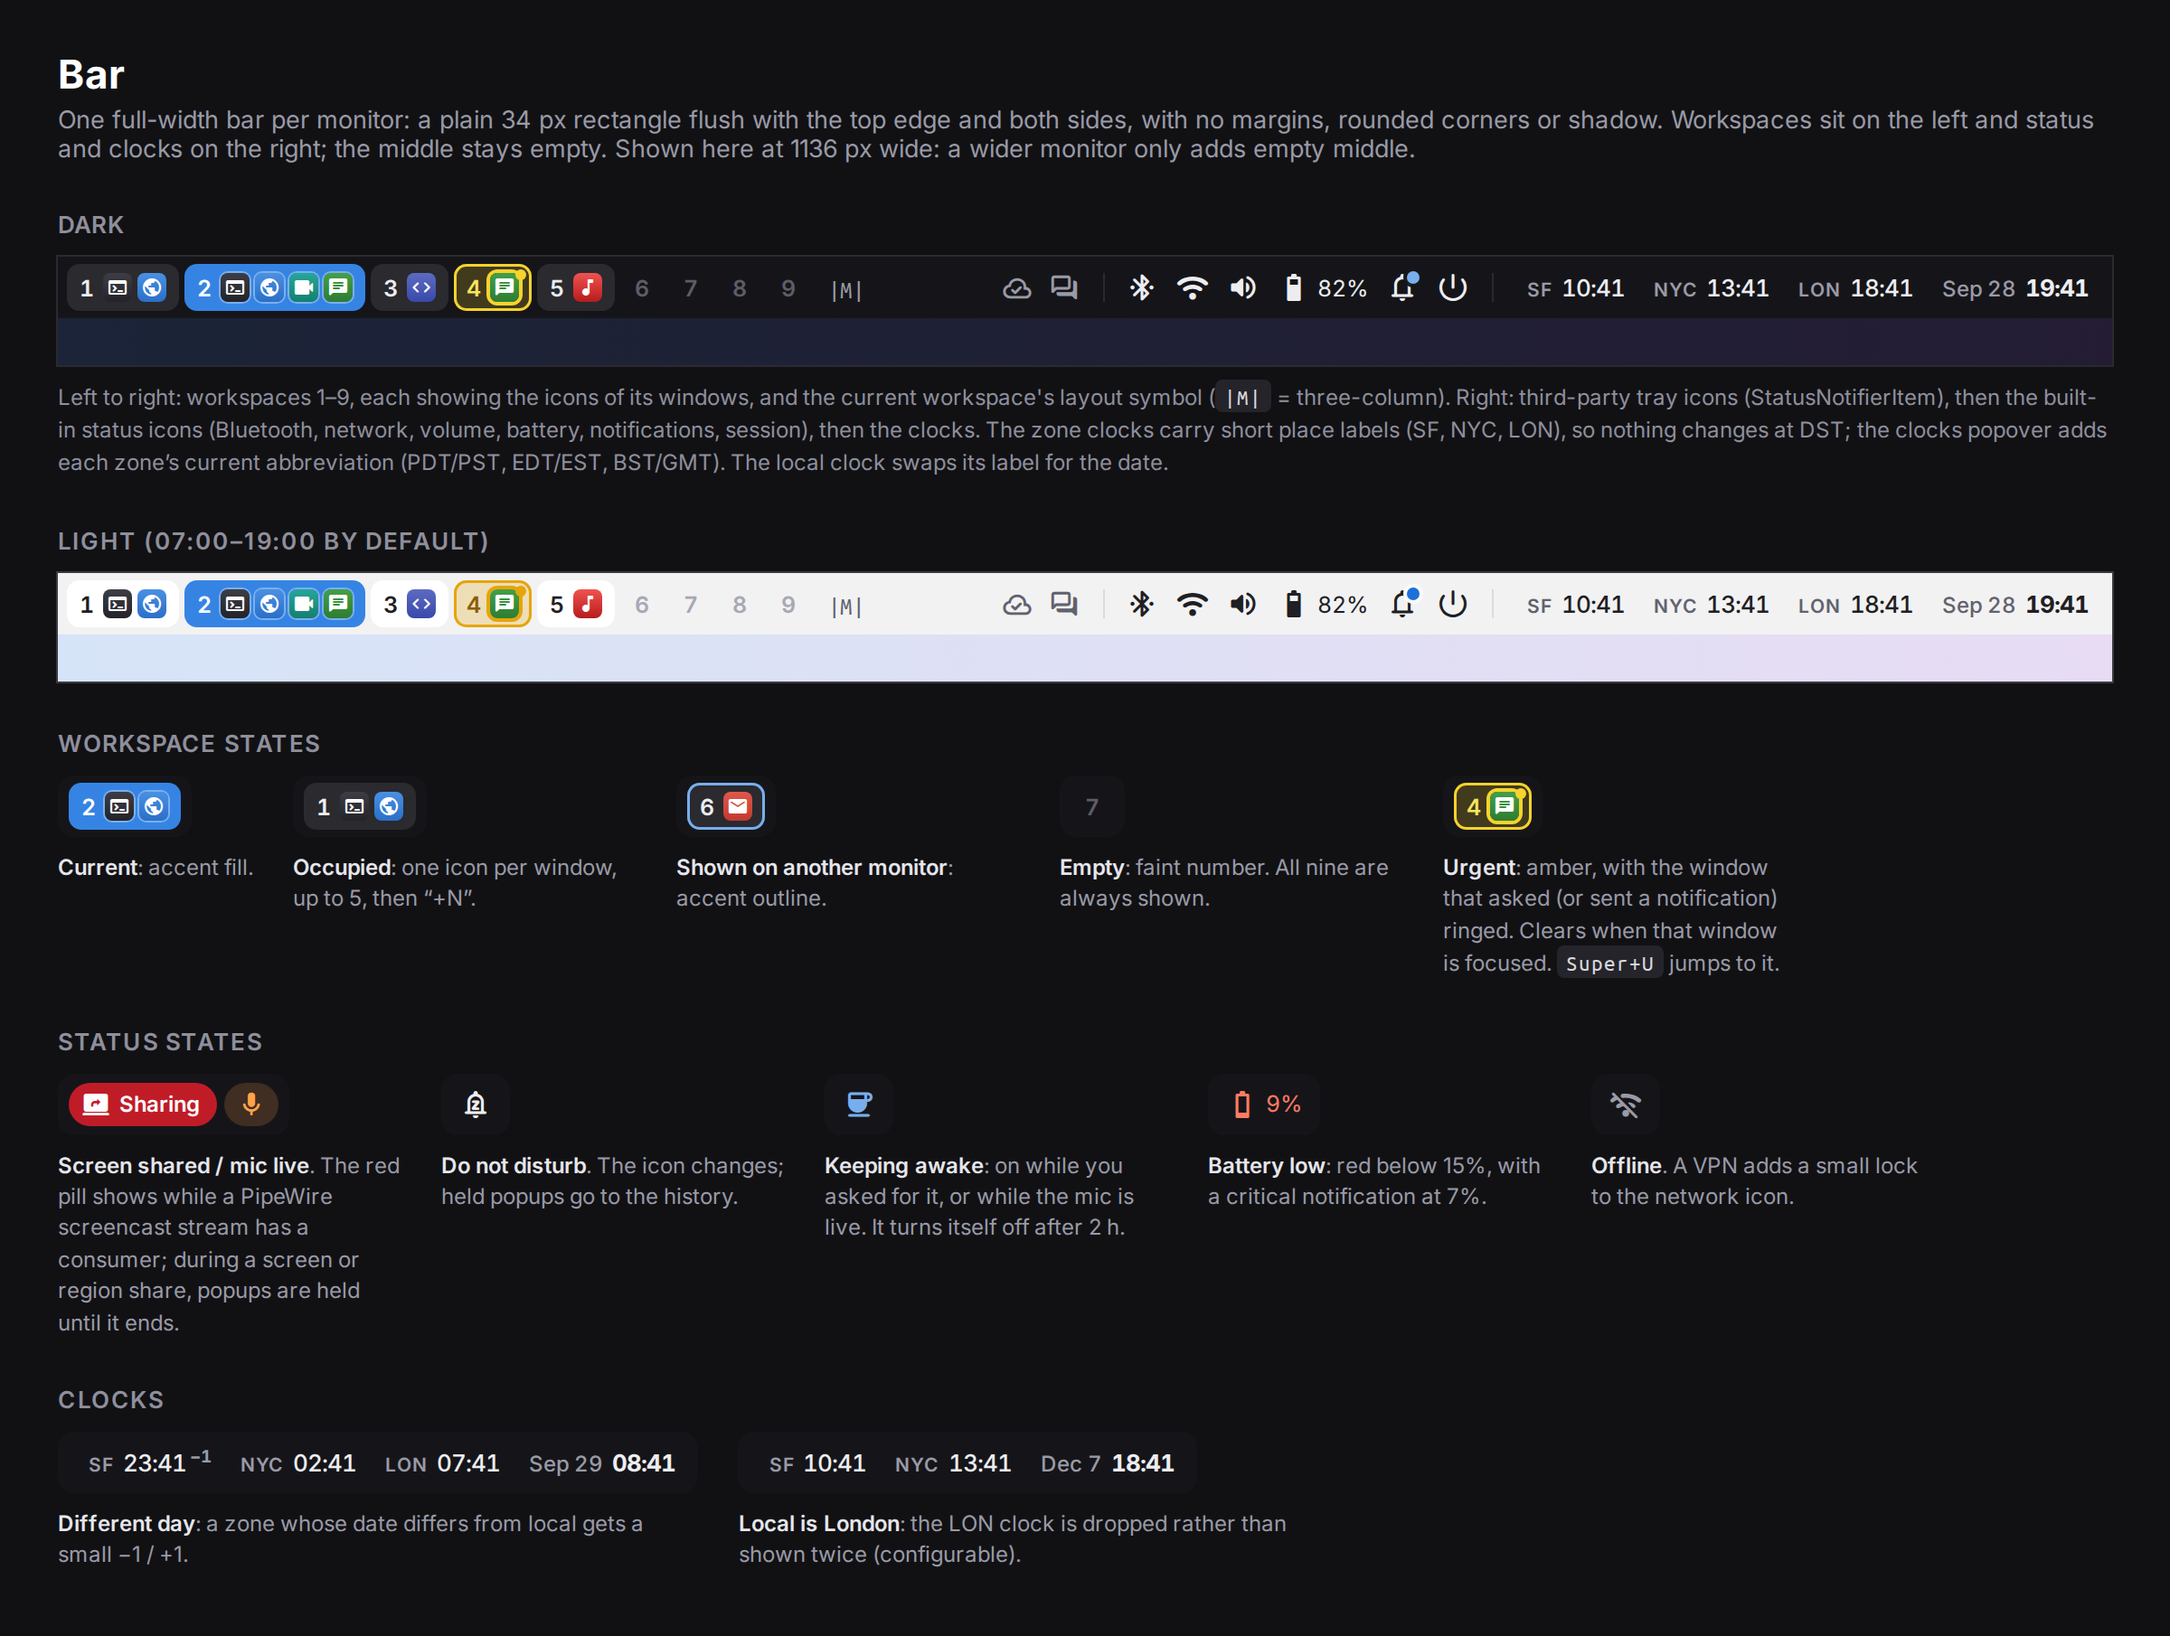
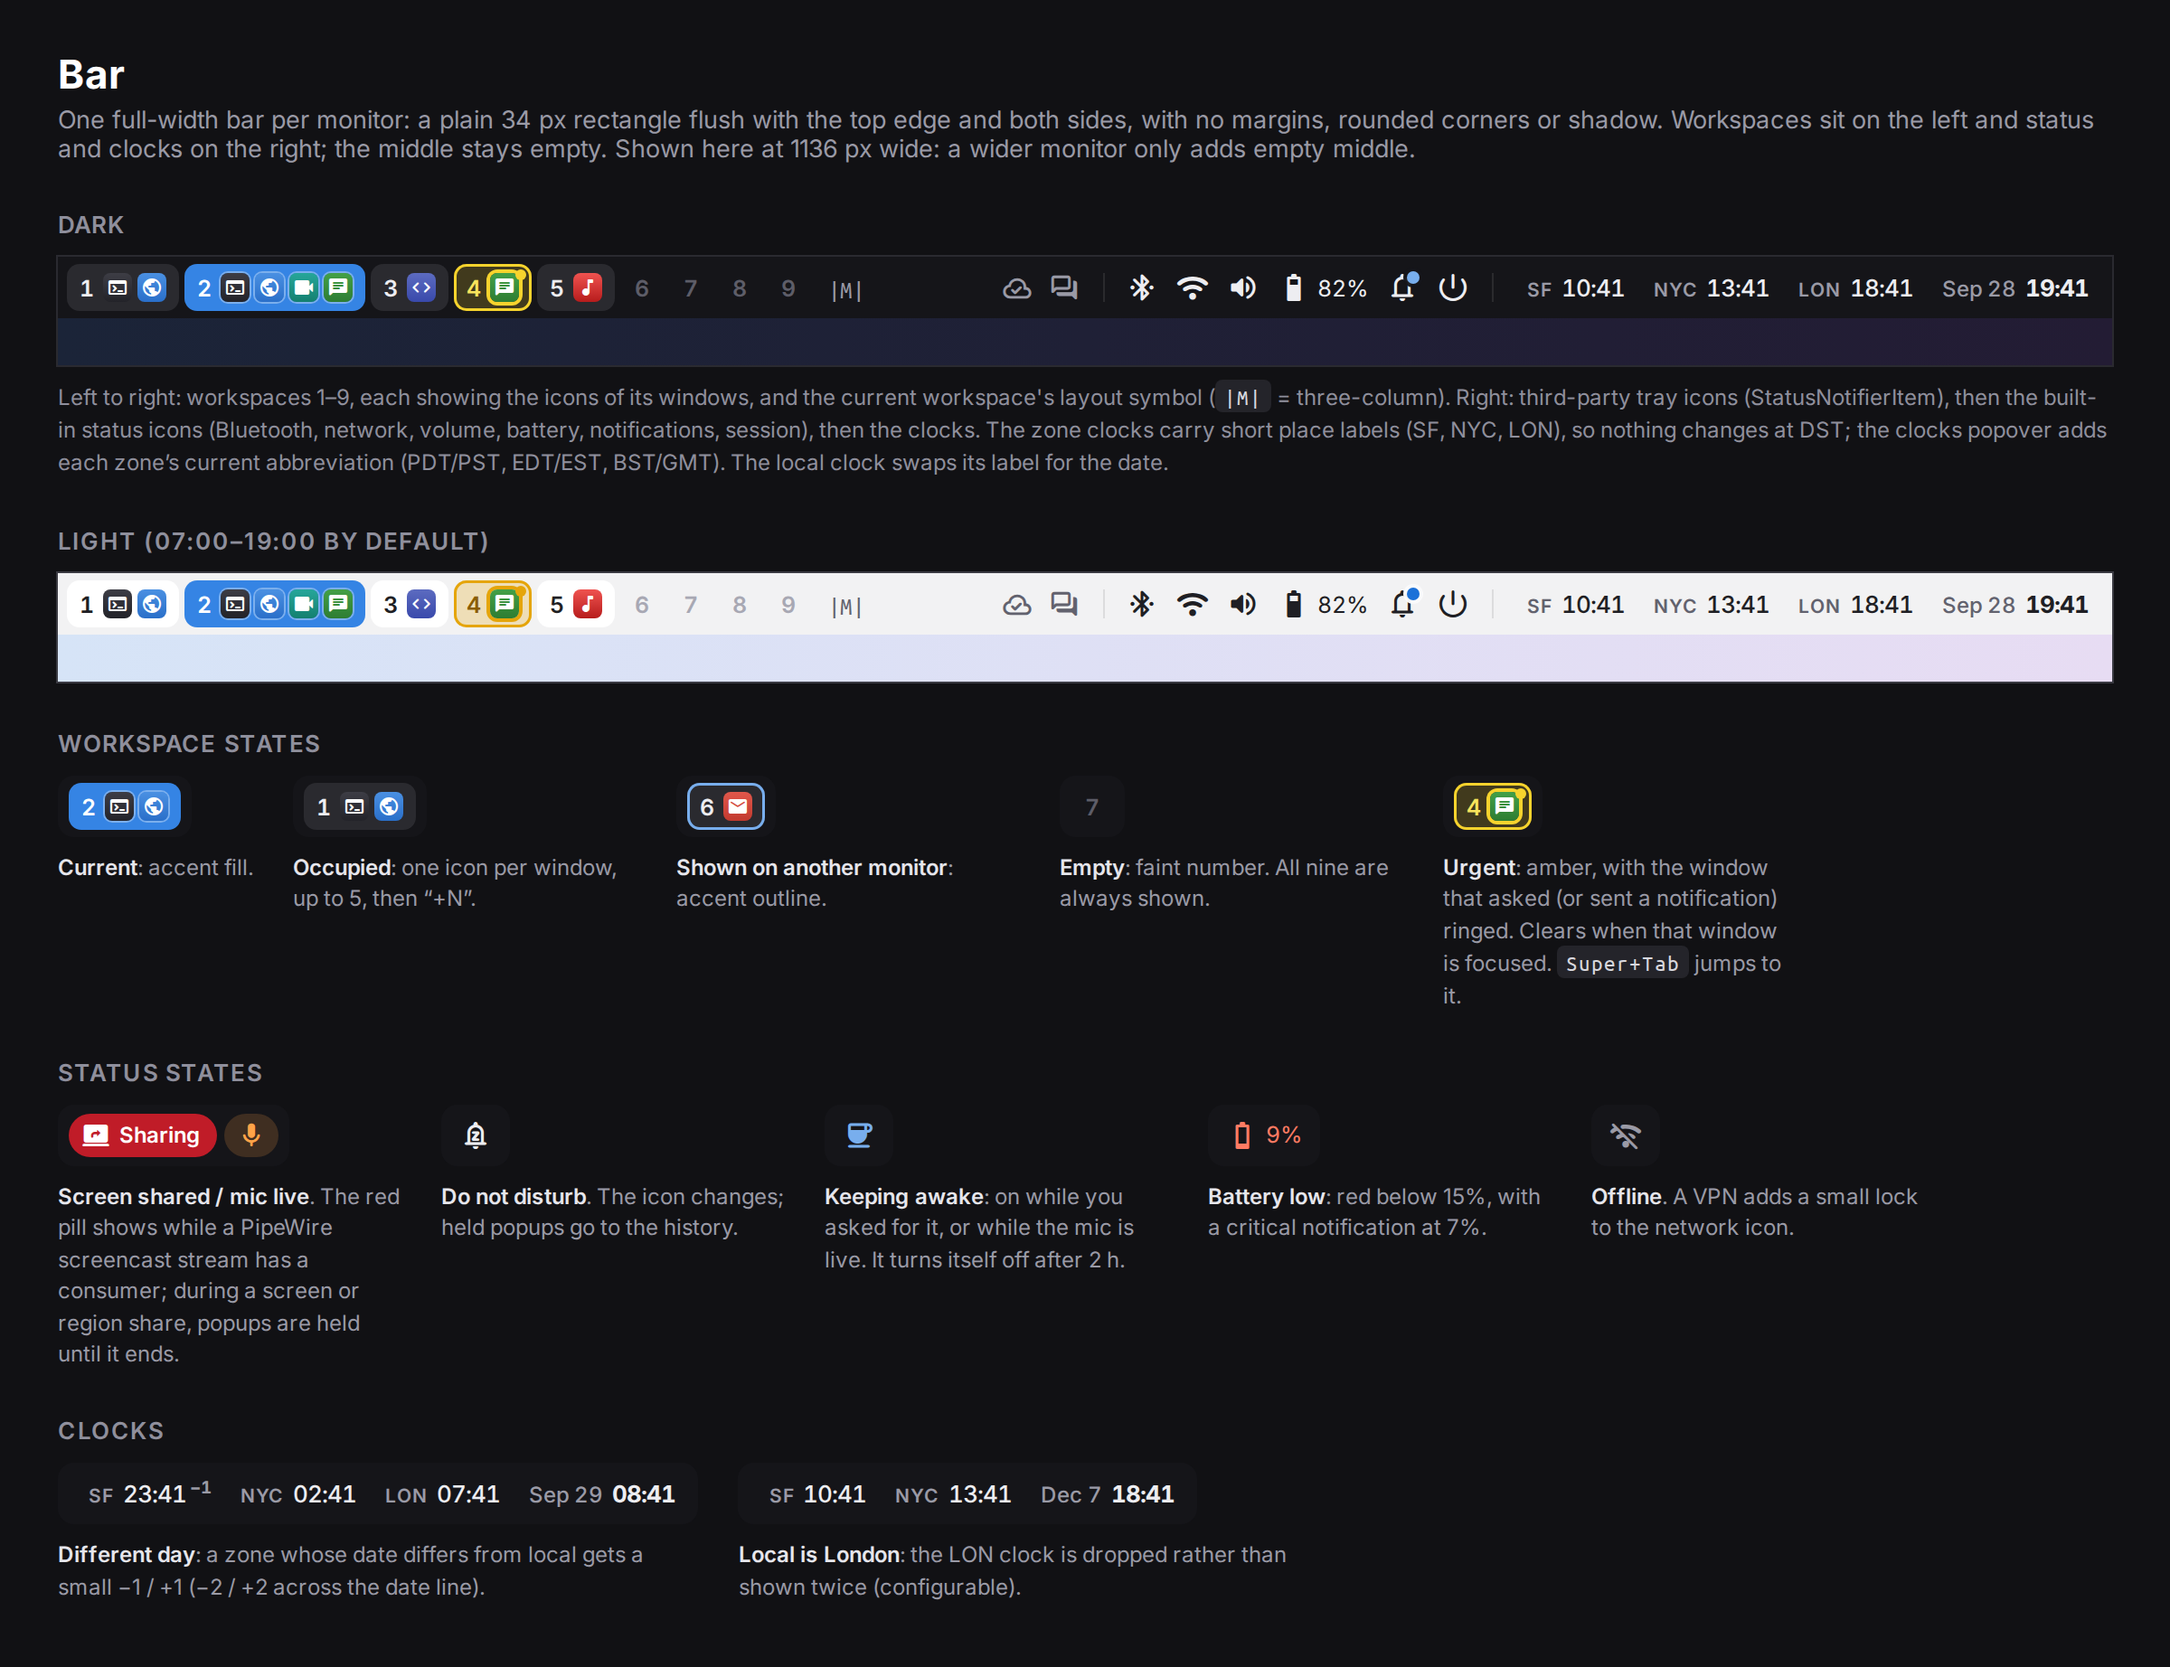
keys: Super+Tab and Super+Home for the waiting window
Super+U goes to the window waiting for attention (the focus guard's
focus_attention(), falling back to the last window). It moves to
Super+Tab, and Super+Home does the same, both on trial: TODO.md says to
keep whichever sticks and free the other. The guard's notification now
says "Super+Tab to go there", and the spec, comments, tests and the bar
mock's caption follow.

Super+PgUp/PgDn join Super+Left/Right as previous/next workspace, for
GNOME muscle memory.

TODO.md also notes that both keys know only the guard's windows, and
should reach a notification's window once the shell owns notifications.

The bindings themselves live in conf.

Claude-Session: https://claude.ai/code/session_016JKKNkjAowYMPpStXefxJ4

diff --git a/docs/mocks/bar.html b/docs/mocks/bar.html
@@ -106,7 +106,7 @@
   <div class="chip"><div class="bar"><div class="ws occupied"><span class="n">1</span><span class="apps"><span class="appicon app-term"><i class="ms">terminal</i></span><span class="appicon app-web"><i class="ms">public</i></span></span></div></div><div class="cap"><b>Occupied</b>: one icon per window, up to 5, then “+N”.</div></div>
   <div class="chip"><div class="bar"><div class="ws visible"><span class="n">6</span><span class="apps"><span class="appicon app-mail"><i class="ms">mail</i></span></span></div></div><div class="cap"><b>Shown on another monitor</b>: accent outline.</div></div>
   <div class="chip"><div class="bar"><div class="ws empty"><span class="n">7</span></div></div><div class="cap"><b>Empty</b>: faint number. All nine are always shown.</div></div>
-  <div class="chip"><div class="bar"><div class="ws urgent"><span class="n">4</span><span class="apps"><span class="appicon app-chat flag"><i class="ms">chat</i></span></span></div></div><div class="cap"><b>Urgent</b>: amber, with the window that asked (or sent a notification) ringed. Clears when that window is focused. <kbd>Super+U</kbd> jumps to it.</div></div>
+  <div class="chip"><div class="bar"><div class="ws urgent"><span class="n">4</span><span class="apps"><span class="appicon app-chat flag"><i class="ms">chat</i></span></span></div></div><div class="cap"><b>Urgent</b>: amber, with the window that asked (or sent a notification) ringed. Clears when that window is focused. <kbd>Super+Tab</kbd> jumps to it.</div></div>
 </div>
 
 <h2>Status states</h2>

diff --git a/SPEC.md b/SPEC.md
@@ -610,7 +610,7 @@ with new keys in **bold**:
 | `Super+Backspace` | close window |
 | `Super+L` | lock |
 | `Super+1…9` / `Super+Shift+1…9` | go to / send window to workspace |
-| `Super+Left` / `Right` | previous / next workspace (as in KDE and on the Mac) |
+| `Super+Left` / `Right`, **`Super+PgUp`** / **`PgDn`** | previous / next workspace (as in KDE and on the Mac; PgUp/PgDn as in GNOME) |
 | `Super+Shift+Left` / `Right` | move window to the previous / next workspace |
 | `Super+J` / `K`, `Super+Shift+J` / `K` | focus / move down and up the stack |
 | `Super+Return` | swap focused window with the master |
@@ -622,7 +622,7 @@ with new keys in **bold**:
 | `Super+Shift+F`, `Super+Insert` | toggle floating |
 | **`Super`+middle-click** | toggle maximize on the window under the pointer |
 | `Super+Shift+R` | resize mode (floating windows) |
-| **`Super+U`** | focus the most recent urgent window |
+| **`Super+Tab`**, **`Super+Home`** | focus the most recent window waiting for attention; with none waiting, the window you were last in |
 | **`Super+Shift+N`** | notification center |
 | `Print` / **`Alt+Print`** / `Shift+Print`, `Super+Print` | screenshot screen / window / region |
 | **`XF86AudioMicMute`**, **`Super+Shift+M`** | toggle microphone mute (system-wide) |
@@ -1154,7 +1154,7 @@ See [`screenshot.png`](docs/mocks/screenshot.png).
 ## 14. Focus and attention
 
 **Nothing takes the keyboard unless you asked for it.** A window that wants
-attention is marked urgent, never focused, and `Super+U` takes you there.
+attention is marked urgent, never focused, and `Super+Tab` takes you there.
 This is KWin's focus-stealing prevention at Medium, which `setup-kde` runs
 because it stops background apps snatching focus mid-typing while still
 letting the launcher and the popups you open take it. Decided in review of
@@ -1203,7 +1203,7 @@ this spec.
     Wayland popups, which keep their grab here.
   - M2 checks all three.
 - **The pointer never jumps** (`cursor:no_warps true`). `Super+J`,
-  `Super+U` and a new window move focus, not the pointer. The Amethyst and
+  `Super+Tab` and a new window move focus, not the pointer. The Amethyst and
   qtile configs both turned warping off.
 - **Closing a window** focuses the window under the pointer
   (`input:focus_on_close cursor`), like KWin's NextFocusPrefersMouse.
@@ -1211,7 +1211,7 @@ this spec.
   to activate its window.
   - KWin allows that, because kitty's activation token carries a fresh
     input serial. Hyprland doesn't check tokens, so here Chrome's window is
-    marked urgent and `Super+U` gets there.
+    marked urgent and `Super+Tab` gets there.
   - M3 tries two fixes: an upstream patch that honors a token whose serial
     is your latest input, and, in the meantime, allowing an activation that
     arrives within a second of a key press in the focused window. That
@@ -1237,15 +1237,15 @@ this spec.
   calls `quickspace_focus.announce_waiting()`, which announces each
   waiting window again, when it starts and after a config reload, since
   either may have lost or reset what it knew.
-- **Super+U.** Lua can't set Hyprland's urgent flag, so the guard keeps its
+- **Super+Tab.** Lua can't set Hyprland's urgent flag, so the guard keeps its
   own list of waiting windows: the ones it kept from focus, and activations
   without a grant. `quickspace_focus.focus_attention()` goes to the latest
-  and returns false when none is waiting, and `Super+U` then falls back to
+  and returns false when none is waiting, and `Super+Tab` then falls back to
   Hyprland's `urgent_or_last`.
 - **Polkit prompts in M2.** The transitional polkit agent is a window of
   its own, and Lua can't see which process asked. So the guard applies the
   keyboard half of the §14.1 rule: a known agent's window takes focus when
-  you pressed a key in the last 2 s, and otherwise waits for `Super+U`,
+  you pressed a key in the last 2 s, and otherwise waits for `Super+Tab`,
   with its notification. The Quickshell agent (M3) applies the full rule.
 - **Portal dialogs in M2.** A file chooser from `xdg-desktop-portal-gtk`
   (or `-kde`, `-gnome`) is the portal's window, not the app's, and Lua
@@ -1375,7 +1375,7 @@ to be focused.
     ringed.
   - The state clears when a marked window is focused, or when its
     notification is dismissed.
-  - `Super+U` goes to the most recent mark, switching workspace. For an
+  - `Super+Tab` goes to the most recent mark, switching workspace. For an
     app-wide mark, that is the app's most recently focused window, the same
     rule a notification click falls back on (§9).
 
@@ -1780,7 +1780,7 @@ Decided in review of this spec:
 - **Monitors:** each monitor shows its own workspace (§6.5).
 - **Nothing steals focus:** only what you asked for takes the keyboard (the
   app you're in, what you just launched, the launcher). Everything else is
-  marked urgent, and `Super+U` jumps there (§14).
+  marked urgent, and `Super+Tab` jumps there (§14).
 - **Clock labels:** `SF` / `NYC` / `LON`, with abbreviations in the popover
   (§7.3). Local is always last, and a listed zone that is the local zone is
   hidden.

diff --git a/TODO.md b/TODO.md
@@ -110,7 +110,7 @@ swww isn't packaged). It also runs
   It goes away with the Quickshell owners, which change theme without a
   restart (SPEC.md §5.4).
 - A polkit prompt takes focus only after a key press (the keyboard half of
-  SPEC.md §14.1); after a click it waits for `Super+U`, and there's no
+  SPEC.md §14.1); after a click it waits for `Super+Tab`, and there's no
   **Authenticate** notification yet. Both come with the Quickshell agent.
 - The Quickshell bar marks the windows the focus guard leaves waiting
   (`quickspace-attention`, in `shell/MarkData.qml`), but waybar is still
@@ -147,6 +147,12 @@ tested where it can be without a live session.
   monitor with the workspaces and clocks. It has only been parsed with
   `qmlformat`, not run, since Quickshell can't run in the sandbox. Next:
   - Try it on a real session, beside waybar.
+  - `Super+Tab` and `Super+Home` both run the focus guard's
+    `focus_attention()`, on trial: keep whichever sticks in daily use and
+    free the other. It knows only the windows the guard kept from
+    focus. Once the shell owns notifications (M4), make them reach a
+    notification's window too (§14.4's marks), the way a click on its
+    popup does.
   - `updateMarks` is fed the focus guard's events (`shell/MarkData.qml`,
     via `markEvent`) and Hyprland's urgent flag. Feed it notifications'
     events too, once the shell owns notifications (M4). On a live session,
